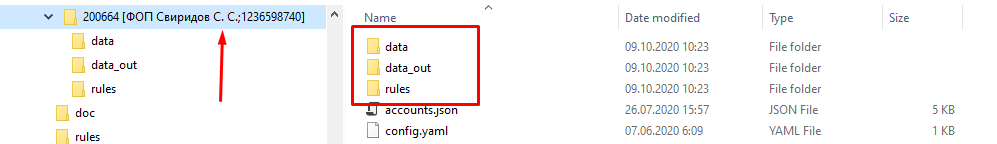
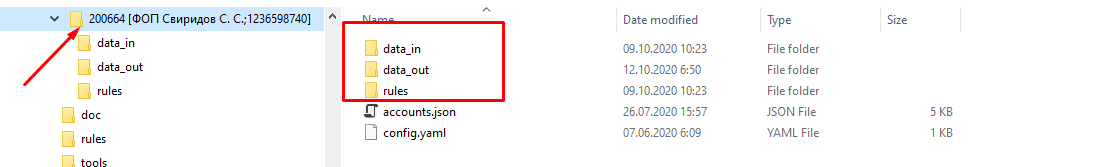
fix docs

diff --git a/README.md b/README.md
@@ -1,4 +1,15 @@
 # Bank Statements Export tool
+- [Bank Statements Export tool](#bank-statements-export-tool)
+  - [Purpose](#purpose)
+  - [Languages/frameworks](#languagesframeworks)
+  - [Описание](#описание)
+  - [Статус](#статус)
+  - [Как работает](#как-работает)
+  - [Запуск для ленивых](#запуск-для-ленивых)
+  - [Как установить](#как-установить)
+  - [Как запускать](#как-запускать)
+  - [Порядок действий](#порядок-действий)
+  - [Справка по коммандам](#справка-по-коммандам)
 ## Purpose
 Export statements from Bank Statements (usually XLS file) into set of json files, feed those files to [Taxer API](https://github.com/maxsivkov/py-taxer-api). Because this project is actual for ukrainians, all documentation pages are in russian.
 
@@ -24,7 +35,13 @@ Export statements from Bank Statements (usually XLS file) into set of json files
 - В корне проекта есть файл `config.yaml`, в котором указывается корневая папка для данных пользователя (параметр `accounts_folder`). В этой папке будет создана структура каталогов для работы софта (подпапки для юзеров, папка для входных файлов и папка для выходных файлов). А также адрес TaxerAPI (параметр `taxerapi_url`)
 - Параметры `accounts_folder` и `taxerapi_url` также можно задавать через коммандную строку (см. `python main.py --help`) или через переменные окружения (`BSTMT_ACCOUNTS_DIR` и `BSTMT_TAXER_API_URL` соответственно)
 -    
+
+## Запуск для ленивых
+Требует только установленого [Docker](https://docs.docker.com/get-docker/). Использует имаджи с [Dockerhub](https://hub.docker.com/repository/docker/maxsivkov/bank-statements)  
+[Читать](doc/how-to-run-docker-lazy.md)
+
 ## Как установить
+
  * [На десктопе](doc/how-to-install-desktop.md)
  * [Через Docker](doc/how-to-install-docker.md)
 
@@ -37,7 +54,7 @@ Export statements from Bank Statements (usually XLS file) into set of json files
 - Инициализация данных по ФОПам (это нужно сделать один раз, либо выполнять каждый раз когда меняются реквизиты ФОПа - например добавляются счета)  
   ```
   python main.py init
-  ```  
+  ```
   В результате в папке, на которую указывает `accounts_folder` должен появиться каталог для данных ФОПа, чтото типа такого:  
   ![содержимое accounts_folder](doc/accounts-folder-content.png "содержимое accounts_folder")
 - Зайти на Приват24 для бизнеса, раздел счета и выписки - выбираем все счета - Выписка - указываем период по кварталу:  
@@ -45,12 +62,12 @@ Export statements from Bank Statements (usually XLS file) into set of json files
   __II__  : 01.04.2020 - 31.06.2020  
   __III__ : 01.07.2020 - 30.09.2020  
   __IV__  : 01.10.2020 - 31.12.2020  
-  и экспорт в xls файл. Файл нужно поместить в подпапку `data` которая нахордится в папке ФОПа 
-- Выполнить 
+  и экспорт в xls файл. Файл нужно поместить в подпапку `data_in` которая нахордится в папке ФОПа 
+- Для создания json файлов выполнить 
   ```
   python main.py process
   ```
-  для создания json файлов. Они создаются в каталоге `data_out`  
+  Они создаются в каталоге `data_out`  
   По окончании операции в консоль напишется сколько обработалось операций  
   
   __!ВНИМКАНИЕ!__ в поле Комментарий каждой операции вставляется тег вида IMP-YYYY-MM-DD, где YYYY - текущий год, MM - текущий месяц, DD - текущий день. Это сделано для того чтобы можно было впоследствии найти все операции по текущей дате в таксере и например удалить, если чтото пошло не так.   
